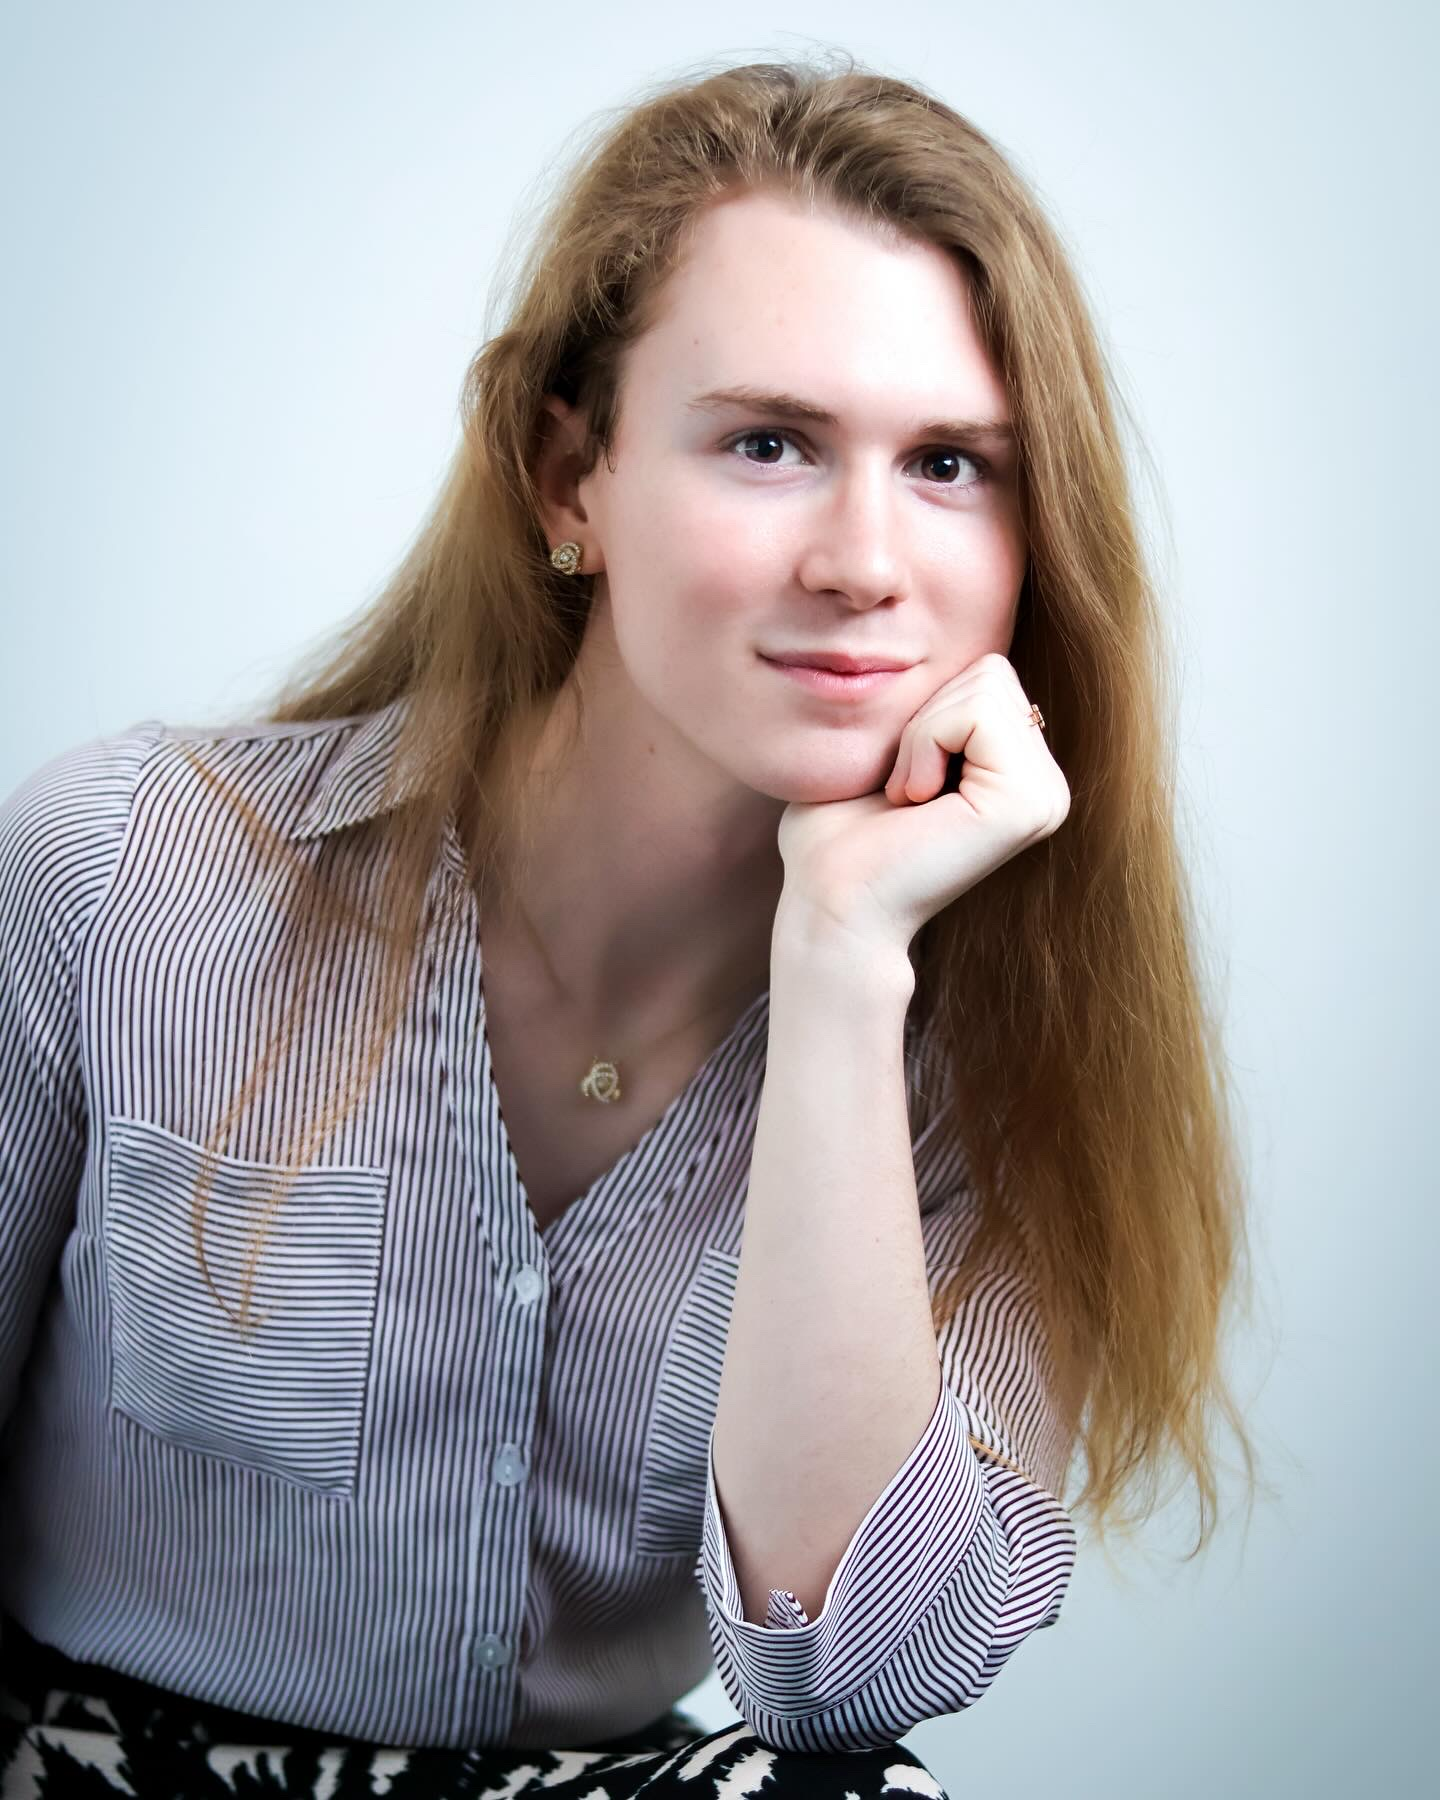
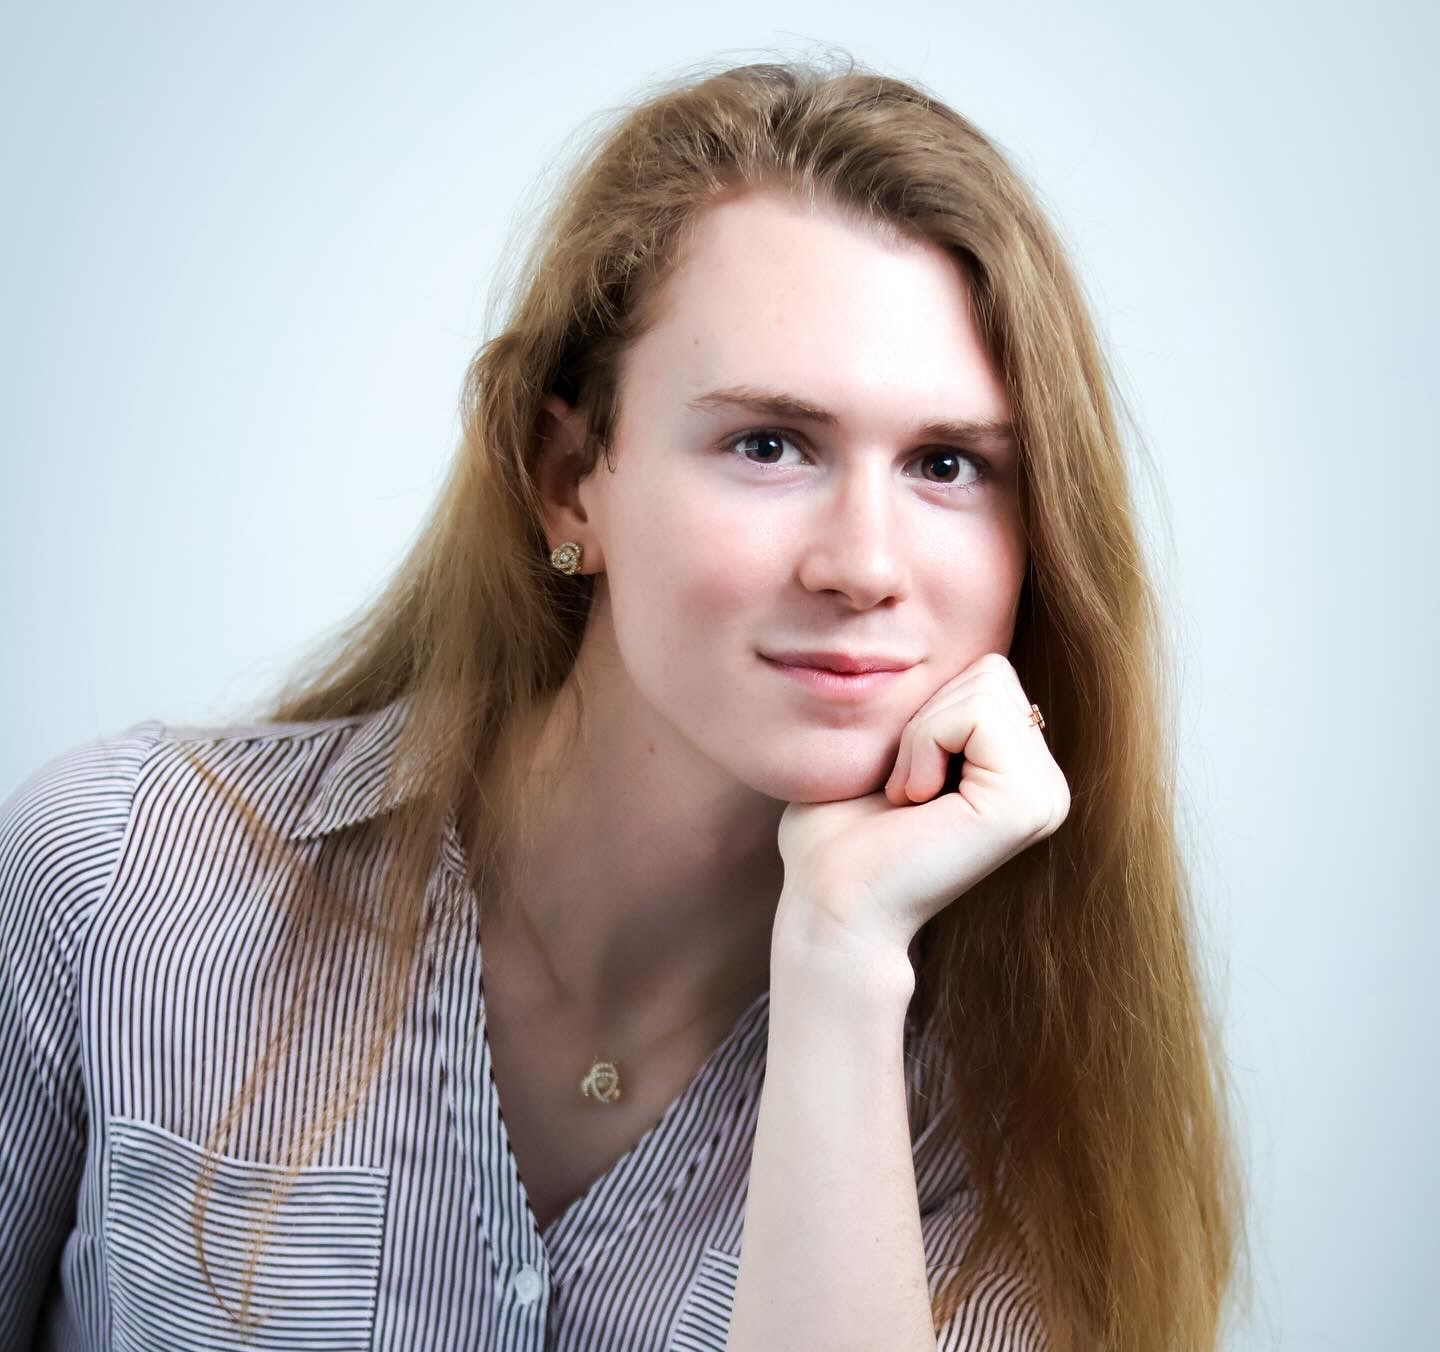
Finalized profile transition picture

diff --git a/styles.css b/styles.css
@@ -13,14 +13,13 @@ body {
   background: linear-gradient(135deg, #1e3a8a, #60a5fa);
   color: white;
   display: flex;
-  flex-direction: column; /* 👈 THIS STACKS ELEMENTS */
+  flex-direction: column;
   justify-content: center;
   align-items: center;
   text-align: center;
   position: relative;
   overflow: hidden;
 }
-
 
 .hero-content {
   max-width: 800px;
@@ -111,54 +110,90 @@ body {
   color: #1d4ed8;
 }
 
+/* Profile Section */
+.profile-section {
+  display: flex;
+  justify-content: center;
+  align-items: center;
+  padding: 80px 0;
+  background-color: #ffffff;
+}
+
+.profile-container {
+  width: 250px;
+  height: 250px;
+  perspective: 1000px;
+  position: relative;
+}
+
+.profile-card {
+  width: 100%;
+  height: 100%;
+  position: relative;
+  transform-style: preserve-3d;
+  transition: transform 0.6s ease-in-out;
+}
+
+.profile-container:hover .profile-card {
+  transform: rotateY(180deg);
+}
+
+.profile-front, .profile-back {
+  width: 100%;
+  height: 100%;
+  position: absolute;
+  backface-visibility: hidden;
+  display: flex;
+  align-items: center;
+  justify-content: center;
+  border-radius: 50%;
+}
+
+.profile-front {
+  background: url('pictures/prof_head.jpg') no-repeat center/cover;
+  object-fit: cover;
+  object-position: center;
+  border-radius: 50%;
+}
+
+.profile-back {
+  background: #1e3a8a;
+  color: white;
+  height: 100%;
+  width: 100%;
+  transform: rotateY(180deg);
+  display: flex;
+  flex-direction: column;
+  justify-content: center;
+  align-items: center;
+  text-align: center;
+  padding: 0;
+  border-radius: 50%;
+  position: absolute;
+  top: 0;
+  left: 0;
+}
+
+.profile-back ul {
+  list-style: none;
+  padding: 0;
+}
+
+.profile-back li a {
+  color: white;
+  text-decoration: none;
+  font-size: 1rem;
+  transition: color 0.3s ease-in-out;
+}
+
+.profile-back li a:hover {
+  color: #60a5fa;
+}
+
 /* Footer */
 .site-footer {
   background-color: #1e3a8a;
   color: white;
   text-align: center;
   padding: 20px;
-}
-
-/* Hover & Animation Effects */
-.cta-button:hover,
-.projects-preview li a:hover {
-  transform: scale(1.05);
-  cursor: pointer;
-}
-
-/* Parallax Effect */
-.hero-section::before {
-  content: '';
-  position: absolute;
-  top: 0;
-  left: 0;
-  width: 100%;
-  height: 100%;
-  background-image: url('your-parallax-image.jpg');
-  background-attachment: fixed;
-  background-size: cover;
-  background-position: center;
-  opacity: 0.2;
-  z-index: -1;
-}
-
-/* Media Queries */
-@media (max-width: 768px) {
-  .hero-section h1 {
-    font-size: 2.5rem;
-  }
-
-  .hero-section .tagline {
-    font-size: 1.2rem;
-  }
-
-  .intro-section h2,
-  .projects-preview h2 {
-    font-size: 2rem;
-  }
-
-  .hero-image {
-    width: 120px;
-    height: 120px;
-  }
 }

diff --git a/Home.html b/Home.html
@@ -47,11 +47,11 @@ ul.task-list li input[type="checkbox"] {
 
 <div class="hero-section">
 <h1>
-Trey Roark (She/They)
+Trey Roark
 </h1>
 <br>
 <p class="tagline">
-Data Scientist | Statistician | Creator
+Data Scientist | Statistician | MSc Candidate
 </p>
 <p><br> <a href="#projects" class="cta-button">Explore My Work</a></p>
 </div>
@@ -78,6 +78,22 @@ Featured Projects
 <a href="#">Arlington Parking Patterns Study</a>
 </li>
 </ul>
+</div>
+<div class="profile-section">
+<div class="profile-container">
+<div class="profile-card">
+<div class="profile-front">
+<p><img src="pictures/prof_head.jpg" class="profile-image" style="border-radius: 50%; object-fit: cover;" width="250" height="250"></p>
+</div>
+<div class="profile-back">
+<p><strong>Connect with Me</strong></p>
+<ul>
+<li><p><a href="https://github.com/LunchTrey20140" target="_blank">GitHub</a></p></li>
+<li><p><a href="http://www.linkedin.com/in/trey-roark-20426b253" target="_blank">LinkedIn</a></p></li>
+</ul>
+</div>
+</div>
+</div>
 </div>
 <footer class="site-footer">
 <p>
